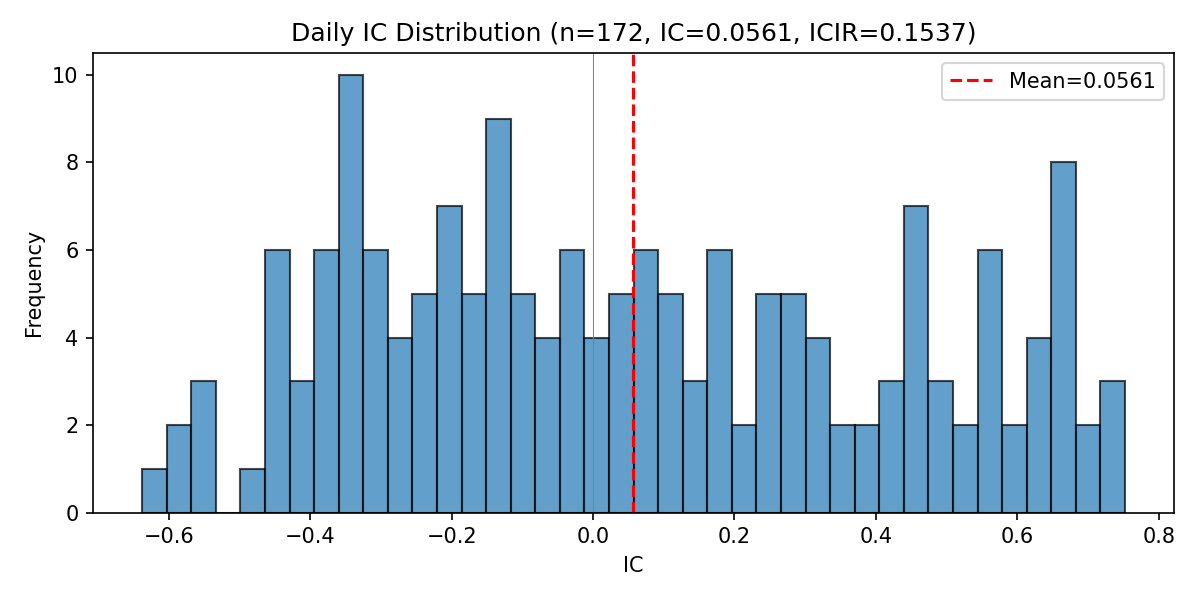
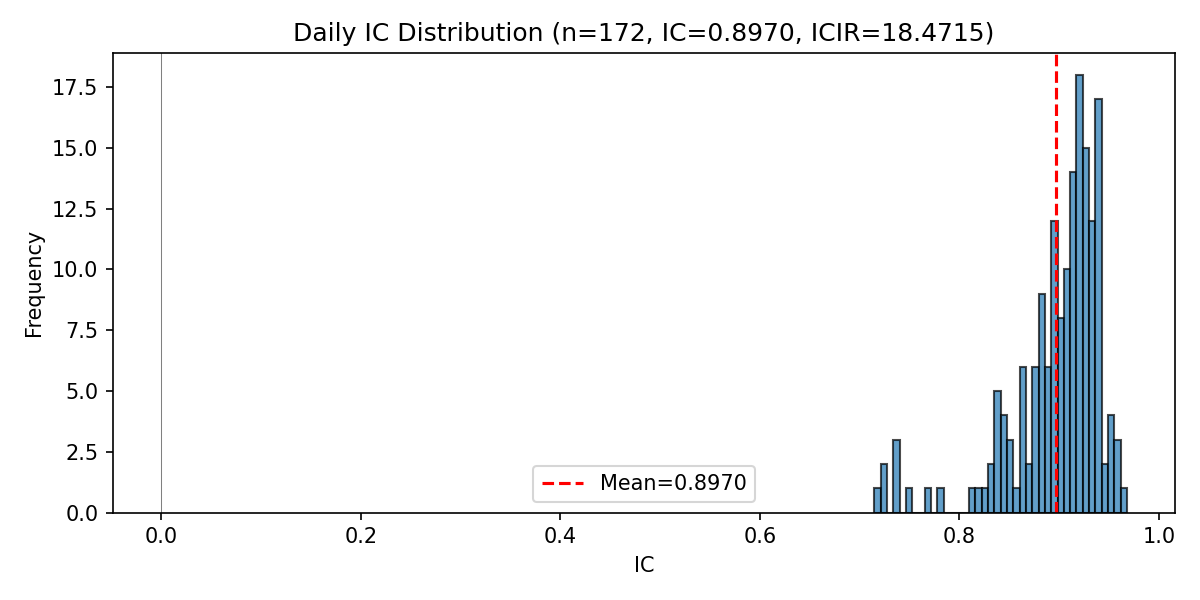
model version 3

diff --git a/dataset.py b/dataset.py
@@ -30,7 +30,7 @@ def rolling_normalize_window(dynamic_data, seq_len, end_idx):
     return np.nan_to_num(normalized, 0.0).astype(np.float32)
 
 
-_DATASET_VERSION = "v2_normalized_target"
+_DATASET_VERSION = "v3_delta_target"
 
 
 def _cache_key(df, dynamic_features, static_features, seq_len, pred_horizon):
@@ -131,8 +131,9 @@ class StockDataset(Dataset):
                 x_dynamic = (window - mean) / std
                 x_dynamic = np.nan_to_num(x_dynamic, 0.0).astype(np.float32)
 
+                last_row = dynamic_data[i - 1]
                 future_row = dynamic_data[i + pred_horizon - 1]
-                y_features = ((future_row - mean) / std)
+                y_features = ((future_row - last_row) / std)
                 y_features = np.nan_to_num(y_features, 0.0).astype(np.float32)
 
                 self.samples.append({